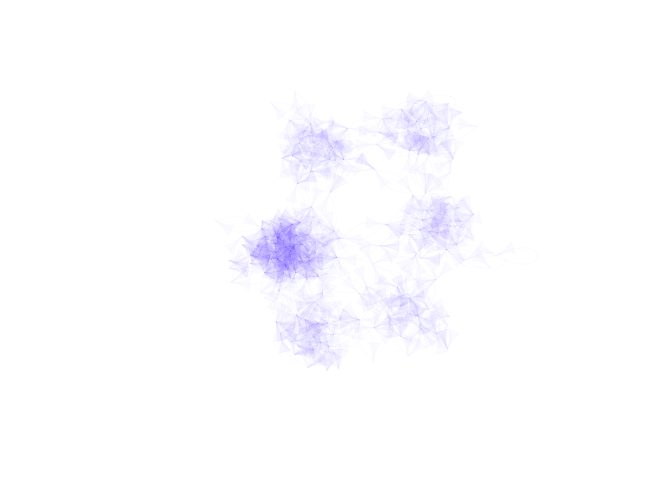
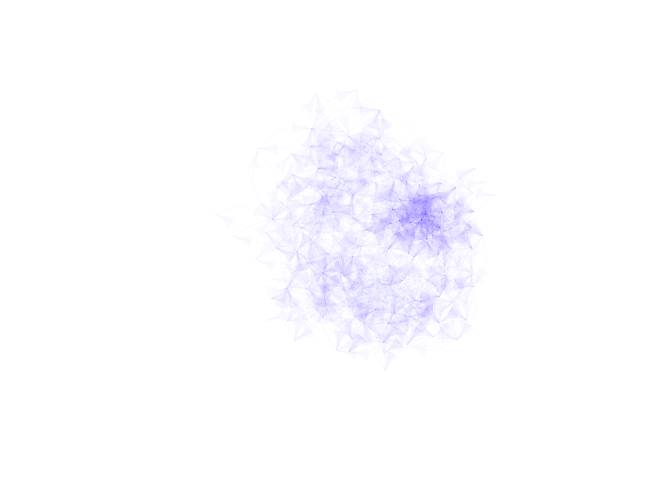
draft of human api for review

Changed region(s): [[0.3438, 0.2188, 0.7188, 0.75]]

diff --git a/README.md b/README.md
@@ -14,12 +14,27 @@ Status](https://img.shields.io/codecov/c/github/cboettig/EcoNetGen/master.svg)](
 
 <!-- README.md is generated from README.Rmd. Please edit that file -->
 
+`EcoNetGen` lets you randomly generate a wide range of interaction
+networks with specified size, average degree, modularity, and
+topological structure. You can also sample nodes and links from within
+simulated networks randomly, by degree, by module, or by abundance.
+Simulations and sampling routines are implemented in ‘FORTRAN’,
+providing efficient generation times even for large networks. Basic
+visualization methods also included. Algorithms implemented here are
+described in de Aguiar et al. (2017)
+[arXiv:1708.01242](https://arxiv.org/abs/1708.01242).
+
 ## Installation
 
-`EcoNetGen` is now on CRAN and can be installed in the usual way;
-`install.packages("EcoNetGen")`.
+`EcoNetGen` is now on CRAN and can be installed in the usual way:
 
-You can install the development version of `EcoNetGen` from GitHub with:
+``` r
+install.packages("EcoNetGen")`
+```
+
+See [NEWS](NEWS.md) for a list of the most recent changes to the
+development version and current CRAN release. You can install the
+current development version of `EcoNetGen` from GitHub with:
 
 ``` r
 # install.packages("devtools")
@@ -32,19 +47,24 @@ machine.
 ## Generate random networks
 
 This is a basic example which generates a network. See `?netgen` for
-documentation describing the parameter arguments.
+documentation describing the parameter arguments. Setting `verbose =
+FALSE` (default) surpresses the output summary message.
 
 ``` r
 library(EcoNetGen)
 set.seed(123456) # for a reproducible simulation
-network <- netgen(n_modav = c(150, 20), # network size, ave module size
-                  cutoffs = c(20, 5),   # module and submodule min sizes
-                  net_type = 41,        # bi-partite nested
-                  net_degree = 10,      # average degree of connection
-                  net_rewire = c(0.07,0.2)) # rewire probabilities
+
+network <- netgen(net_size = 150,
+                  ave_module_size = 20, 
+                  min_module_size = 20,
+                  min_submod_size = 5,
+                  net_type = "bi-partite nested",
+                  ave_degree = 10,
+                  verbose = TRUE
+                  ) 
 #> 
 #> module count = 6 
-#> average degree = 6.74666666666667 
+#> average degree = 7.12 
 #> average module size = 25 
 #> number of components = 1 
 #> size of largest component = 150
@@ -63,14 +83,6 @@ plotting routines, for example:
 
 ``` r
 library(igraph)
-#> 
-#> Attaching package: 'igraph'
-#> The following objects are masked from 'package:stats':
-#> 
-#>     decompose, spectrum
-#> The following object is masked from 'package:base':
-#> 
-#>     union
 plot(network, vertex.size= 0, vertex.label=NA, 
      edge.color = rgb(.22,0,1,.02), vertex.shape="none", 
      edge.curved =TRUE, layout = layout_with_kk)
@@ -81,23 +93,25 @@ plot(network, vertex.size= 0, vertex.label=NA,
 ## Sample from a network
 
 ``` r
-subnet <- netsample(network,
-                 crit = c(4,0), # Sample key nodes by degree, neighbors randomly
-                 key_nodes = c(50, 50, 10, 1000),
-                 anfn = 0.5, # samples 50% of neighbors
-                 numb_hidden = 0,
-                 hidden_modules = c(0,0,0,0,0,0,0,0,0,0)
-                 )
+subnet <- netsampler(network, 
+                     key_nodes_sampler = "degree", 
+                     neighbors_sampler = "random",
+                     n_key_nodes = 50,
+                     n_neighbors = 0.5 # 50%
+                    )
 ```
 
 We can plot the adjacency network, coloring red the sampled nodes. Note
 that `adj_plot` objects are just `ggplot` graphs (`geom_raster`) under
 the hood, and can be modified with the usual `ggplot` arguments, such as
-adding a title here.
+adding a title and changing the color theme here.
 
 ``` r
-library(ggplot2)
-adj_plot(subnet) + ggtitle("Adjacency matrix of sampled vs full network")
+library(ggplot2) # needed to modify plot
+
+adj_plot(subnet) + 
+  ggtitle("Adjacency matrix of sampled vs full network") + 
+  ggthemes::scale_fill_ptol()
 ```
 
 ![](man/figures/README-unnamed-chunk-5-1.png)<!-- -->
@@ -113,8 +127,7 @@ library(ggraph)
 ggraph(subnet, layout = 'kk') +
         geom_edge_link(aes(colour = label, lwd = label), alpha=0.4) +
         geom_node_point(aes(colour = label)) +
-        theme_graph()
-#> Warning: Ignoring unknown aesthetics: edge_size
+        theme_graph() 
 ```
 
 ![](man/figures/README-unnamed-chunk-6-1.png)<!-- -->
@@ -137,12 +150,12 @@ We can check the size of each module as well:
 module_sizes <- sapply(groups(community), length)
 module_sizes
 #>  1  2  3  4  5  6 
-#> 20 21 22 21 20 46
+#> 21 23 21 22 44 19
 mean(module_sizes)
 #> [1] 25
 ```
 
 ``` r
 mean(degree(as.undirected(network)))
-#> [1] 6.786667
+#> [1] 7.12
 ```
